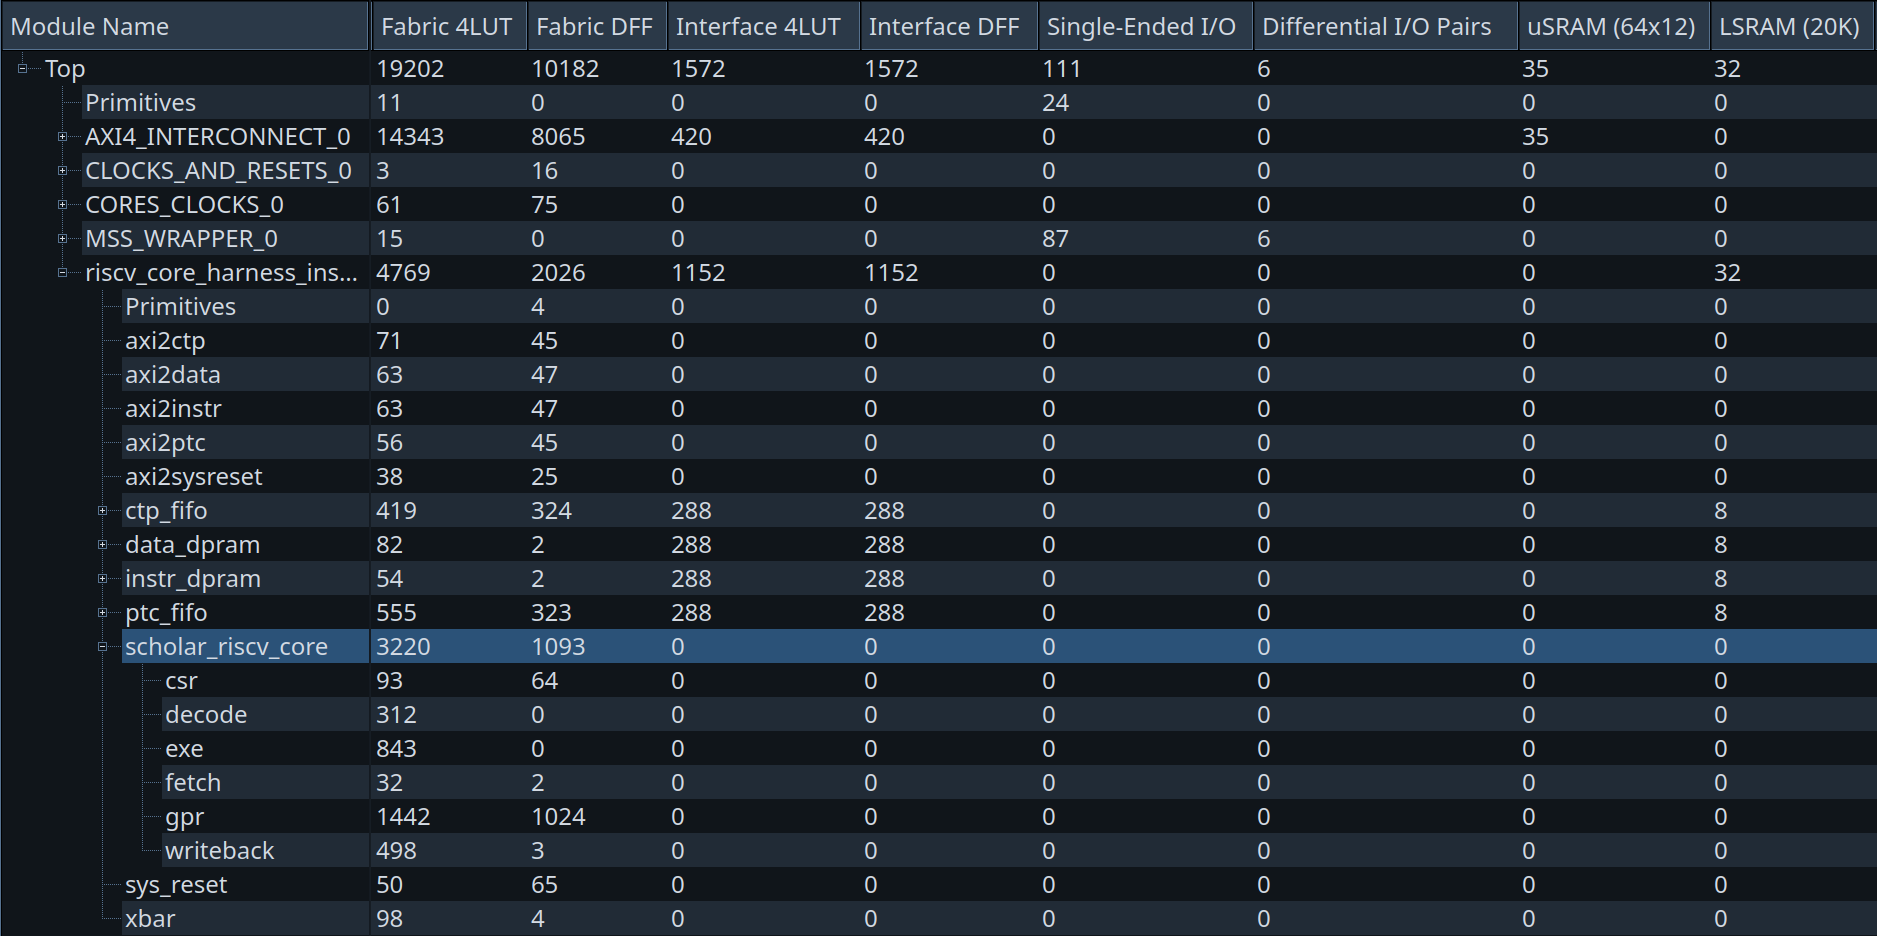
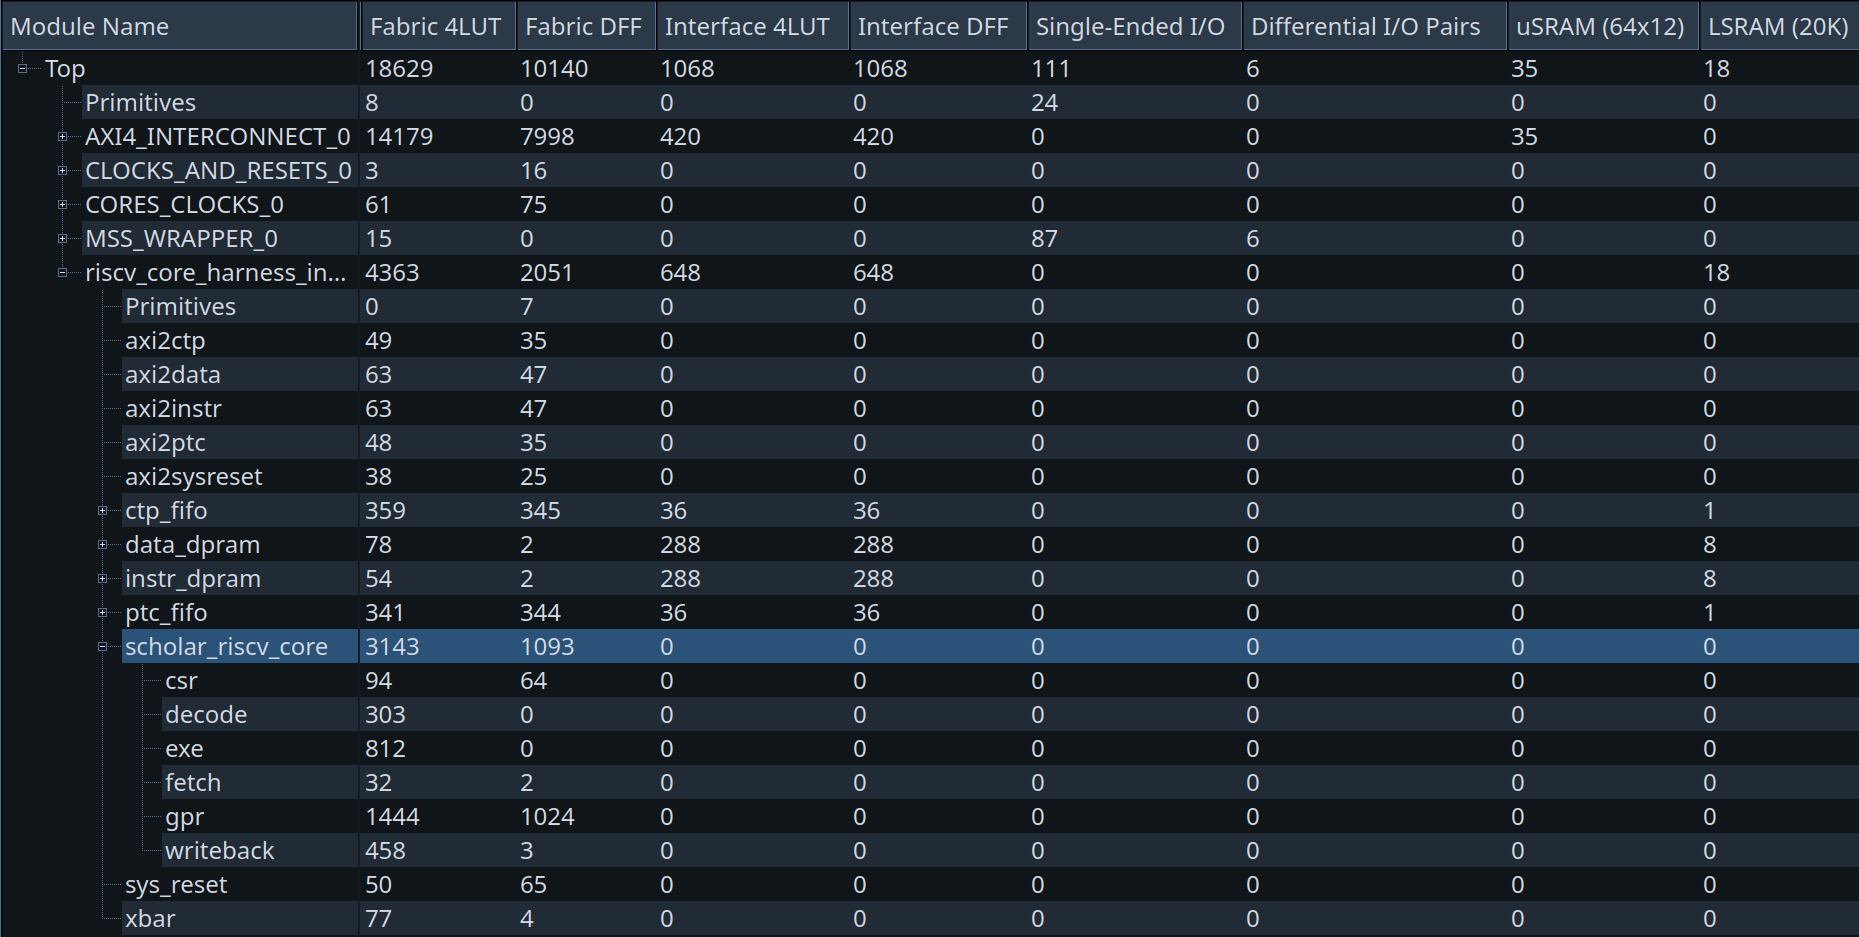
chore: update riscv-core-harness
This update also impacts global build for mpfs discovery kit. Thus, README and images have been updated to match new implementation results.

diff --git a/README.md b/README.md
@@ -373,8 +373,8 @@ Below is a summary of synthesis results on a PolarFire MPFS095T FPGA:
 
 | **Architecture**              | **Features**                                    | **CycleMark/MHz** | **FPGA Resources & Performance (PolarFire MPFS095T)**                          |
 | ----------------------------- | ----------------------------------------------- | ----------------- | ------------------------------------------------------------------------------ |
-| **RV32I + `mcycle` (Zicntr)** | Single-cycle RISC-V processor                   | 1.24              | LEs: 3220 (1093 FFs)<br>Fmax: 80 MHz<br>uSRAM: 0<br>LSRAM: 0<br>Math blocks: 0 |
-| **RV64I + `mcycle` (Zicntr)** | Single-cycle RISC-V processor (64-bit datapath) | 1.05              | LEs: 6545 (2139 FFs)<br>Fmax: 71 MHz<br>uSRAM: 0<br>LSRAM: 0<br>Math blocks: 0 |
+| **RV32I + `mcycle` (Zicntr)** | Single-cycle RISC-V processor                   | 1.24              | LEs: 3143 (1093 FFs)<br>Fmax: 77 MHz<br>uSRAM: 0<br>LSRAM: 0<br>Math blocks: 0 |
+| **RV64I + `mcycle` (Zicntr)** | Single-cycle RISC-V processor (64-bit datapath) | 1.05              | LEs: 6542 (2118 FFs)<br>Fmax: 67 MHz<br>uSRAM: 0<br>LSRAM: 0<br>Math blocks: 0 |
 
 > 📝
 > Except for the **CycleMark/MHz**, these results are implementation-dependent.
@@ -1190,8 +1190,8 @@ The performance of the **scholar-risc-v** processor is evaluated using three key
 
 | **Architecture**              | **CycleMark/MHz** | **FPGA Resources & Performance (PolarFire MPFS095T)**                          |
 | ----------------------------- | ----------------- | ------------------------------------------------------------------------------ |
-| **RV32I + `mcycle` (Zicntr)** | 1.24              | LEs: 3220 (1093 FFs)<br>Fmax: 80 MHz<br>uSRAM: 0<br>LSRAM: 0<br>Math blocks: 0 |
-| **RV64I + `mcycle` (Zicntr)** | 1.05              | LEs: 6545 (2139 FFs)<br>Fmax: 71 MHz<br>uSRAM: 0<br>LSRAM: 0<br>Math blocks: 0 |
+| **RV32I + `mcycle` (Zicntr)** | 1.24              | LEs: 3143 (1093 FFs)<br>Fmax: 77 MHz<br>uSRAM: 0<br>LSRAM: 0<br>Math blocks: 0 |
+| **RV64I + `mcycle` (Zicntr)** | 1.05              | LEs: 6542 (2118 FFs)<br>Fmax: 67 MHz<br>uSRAM: 0<br>LSRAM: 0<br>Math blocks: 0 |
 
 > 📝
 > Except for the **CycleMark/MHz**, these results are implementation-dependent.
@@ -1251,13 +1251,12 @@ However, memory operations (LOAD and STORE) require two cycles to complete, whic
 ### Resource Utilization and Cost Insights
 
 From a resource perspective, the processor remains relatively compact:
-  - 3220 logic elements (1093 flip-flops) for **RV32I**.
-  - 6545 logic elements (2139 flip-flops) for **RV64I**.
+  - 3143 logic elements (1093 flip-flops) for **RV32I**.
+  - 6542 logic elements (2118 flip-flops) for **RV64I**.
   - No block RAMs (uSRAM/LSRAM).
   - No hardware multipliers or DSP blocks.
 
-At first glance, this seems lightweight.<br>
-However, a closer look reveals that a third of these logic elements are used solely for the General-Purpose Registers (**GPR**) — the 32 × 32-bit (for 32-bit architecture) register file required by the RISC-V ISA.
+A closer look reveals that a third of these logic elements are used solely for the General-Purpose Registers (**GPR**) — the 32 × 32-bit (for 32-bit architecture) register file required by the RISC-V ISA.
 
 That’s 1024 flip-flops dedicated to storage alone — not counting additional control logic.<br>
 This highlights a common reality in digital design: **Memory structures, even small ones, are among the most resource-expensive components in digital systems — especially on FPGAs**.
@@ -1281,7 +1280,7 @@ This is why most practical architectures, whether in ASICs or FPGAs, use dedicat
 This first version of the **scholar risc-v** processor deliberately focuses on clarity, visibility, and simplicity rather than raw performance.<br>
 It provides a simple and accessible **RISC-V** implementation designed to introduce the inner workings of a processor through detailed diagrams and execution-flow examples.
 
-As a consequence of this **single-cycle** architecture, performance remains limited but easy to understand and measure. On the reference FPGA implementation, this version achieves approximately **1.24 CycleMark/MHz** × **80 MHz** = **99 CycleMark/s**.
+As a consequence of this **single-cycle** architecture, performance remains limited but easy to understand and measure. On the reference FPGA implementation, this version achieves approximately **1.24 CycleMark/MHz** × **77 MHz** = **95.5 CycleMark/s**.
 
 Its limited performance is an expected consequence of the single-cycle architecture. Future versions will progressively improve this baseline, with each enhancement explained in terms of both benefits and trade-offs.<br>
 These evolutions will serve as a foundation to introduce well-known processor optimization techniques such as **pipelining**, **hazard management**, **branch prediction**, and eventually more advanced microarchitectural concepts.